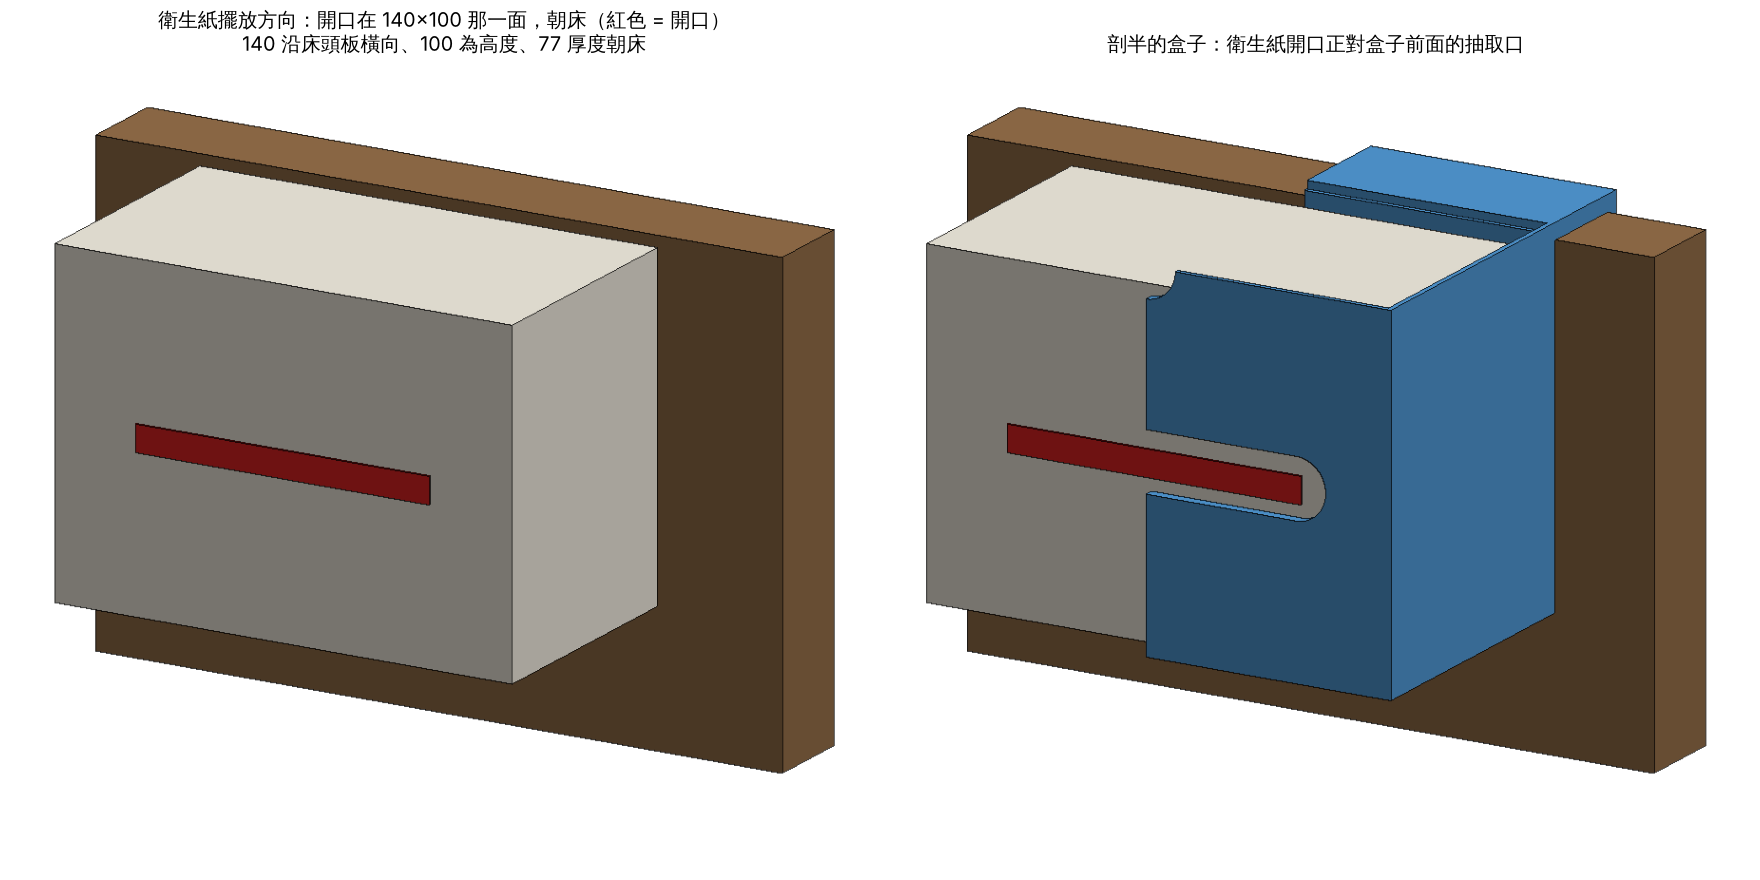
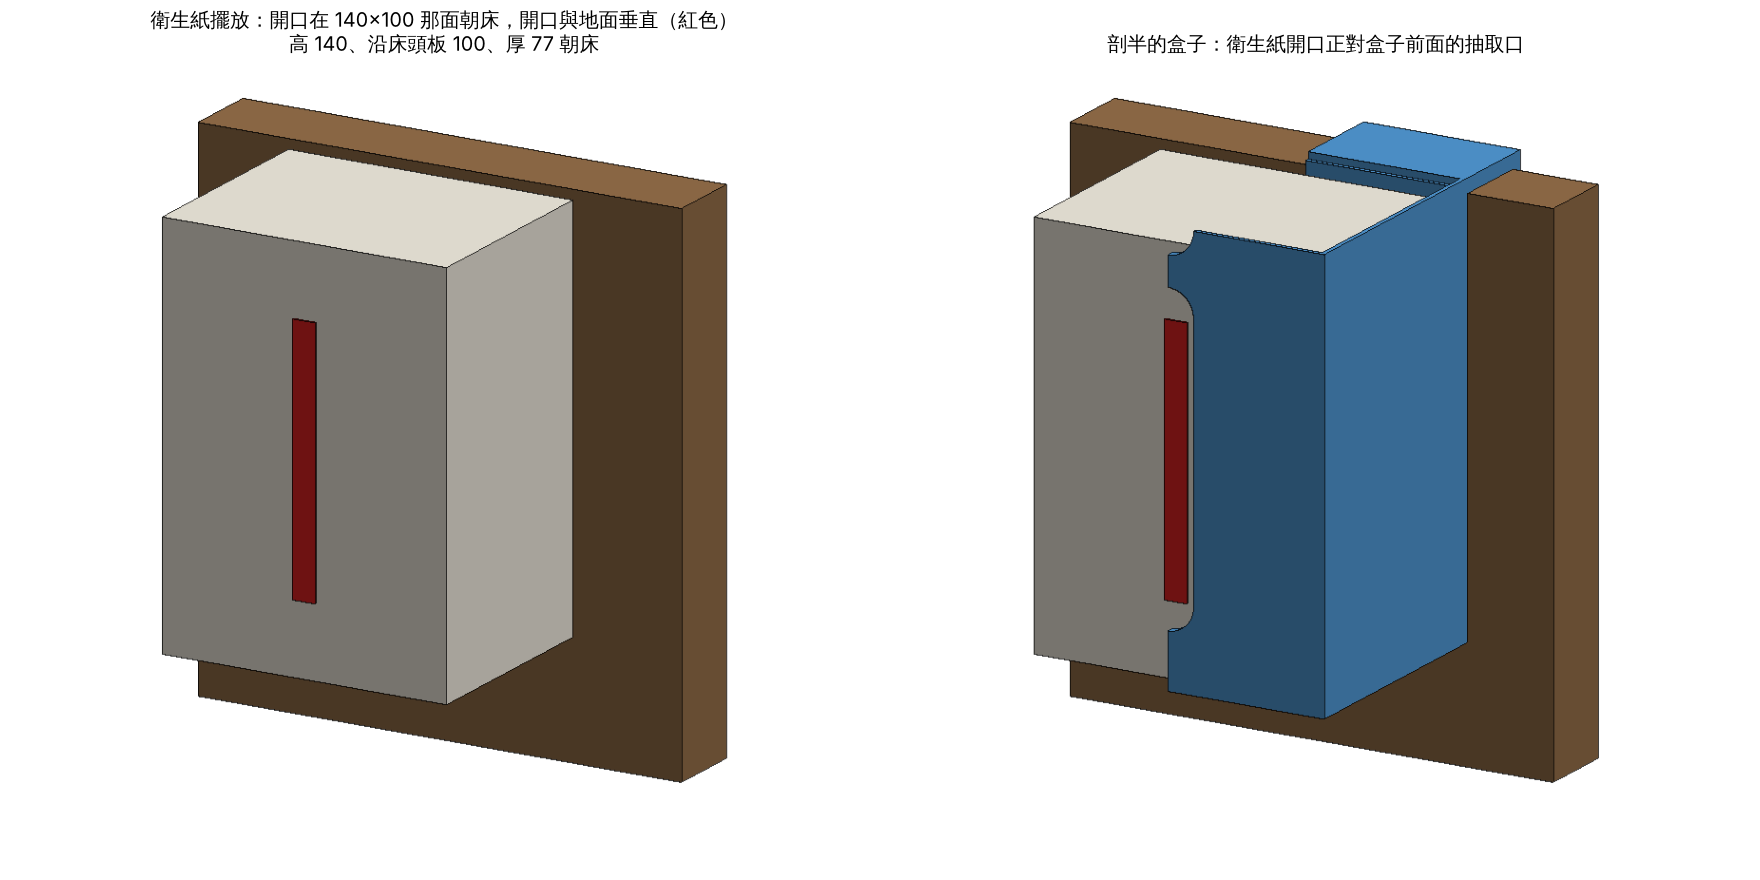
Stand tissue pack upright so the pull slit is vertical
The 140 mm side now stands vertical (100 mm along the headboard) and the
front pull slot is a vertical slit. Orientation is a SLOT_VERTICAL switch.

Claude-Session: https://claude.ai/code/session_012FbViPA8fkn2R78cNFpsQg

diff --git a/Python/project/headboard_tissue_box/tissue_box.py b/Python/project/headboard_tissue_box/tissue_box.py
@@ -11,9 +11,10 @@ import trimesh
 from manifold3d import Manifold, CrossSection
 
 # ---------- 參數 (mm) ----------
-TISSUE_L = 140.0    # 衛生紙長 (沿床頭板, 與抽取口同方向)
-TISSUE_W = 100.0    # 衛生紙寬 (直立後為高度)
-TISSUE_H = 77.0     # 衛生紙厚 (直立後為深度, 朝床方向)
+TISSUE_L = 140.0    # 衛生紙長 (與衛生紙開口同方向)
+TISSUE_W = 100.0    # 衛生紙寬
+TISSUE_H = 77.0     # 衛生紙厚 (朝床方向)
+SLOT_VERTICAL = True  # True: 抽取開口與地面垂直 (長邊 140 站直); False: 開口水平 (長邊沿床頭板)
 TISSUE_CLR = 4.0    # 衛生紙每個方向的總餘隙 (方便放入)
 WALL = 3.0          # 壁厚
 FLOOR = 2.4         # 底厚
@@ -32,9 +33,11 @@ LIP_H = 6.0         # 上蓋內嵌唇深度
 LID_CLR = 0.3       # 上蓋配合間隙
 NOTCH_R = 9.0       # 前緣掀蓋手指缺口半徑
 
-W = TISSUE_L + TISSUE_CLR + 2 * WALL           # 外寬 (沿床頭板)
+PACK_ALONG = TISSUE_W if SLOT_VERTICAL else TISSUE_L  # 衛生紙沿床頭板方向的尺寸
+PACK_UP = TISSUE_L if SLOT_VERTICAL else TISSUE_W     # 衛生紙高度方向的尺寸
+W = PACK_ALONG + TISSUE_CLR + 2 * WALL         # 外寬 (沿床頭板)
 DB = TISSUE_H + TISSUE_CLR + 2 * WALL          # 盒子外深 (不含跨板部分)
-H = FLOOR + TISSUE_W + TISSUE_CLR + LID_T      # 外高
+H = FLOOR + PACK_UP + TISSUE_CLR + LID_T       # 外高
 GAP = BOARD_T + BOARD_CLR
 D_TOTAL = DB + GAP + BACK_T
 OUT = os.path.join(os.path.dirname(os.path.abspath(__file__)), "output")
@@ -72,6 +75,8 @@ def body():
     # 抽取口: 朝床的垂直面 (Y=0)
     zc = SLOT_Z if SLOT_Z is not None else (FLOOR + H - LID_T) / 2
     slot = stadium(SLOT_L, SLOT_W, WALL + 2)
+    if SLOT_VERTICAL:
+        slot = slot.rotate([0, 0, 90])  # 長邊轉到 Y, 下一步轉到 XZ 平面後即為垂直
     slot = slot.rotate([-90, 0, 0]).translate([W / 2, -1, zc])  # (x,y,z)->(x,z,-y), 沿 +Y 穿過前壁
 
     # 前緣中央手指缺口, 方便掀開上蓋

diff --git a/Python/project/headboard_tissue_box/render_tissue.py b/Python/project/headboard_tissue_box/render_tissue.py
@@ -20,10 +20,13 @@ def box_mesh(x0, y0, z0, x1, y1, z1):
 
 c = tb.TISSUE_CLR / 2
 x0, y0, z0 = tb.WALL + c, tb.WALL + c, tb.FLOOR
-pack = box_mesh(x0, y0, z0, x0 + tb.TISSUE_L, y0 + tb.TISSUE_H, z0 + tb.TISSUE_W)
+pack = box_mesh(x0, y0, z0, x0 + tb.PACK_ALONG, y0 + tb.TISSUE_H, z0 + tb.PACK_UP)
 # 衛生紙本身的抽取開口 (在 140x100 那一面, 朝床)
-zc = z0 + tb.TISSUE_W / 2
-opening = box_mesh(x0 + 25, y0 - 0.6, zc - 4, x0 + tb.TISSUE_L - 25, y0 + 0.5, zc + 4)
+xc, zc = x0 + tb.PACK_ALONG / 2, z0 + tb.PACK_UP / 2
+if tb.SLOT_VERTICAL:
+    opening = box_mesh(xc - 4, y0 - 0.6, z0 + 25, xc + 4, y0 + 0.5, z0 + tb.PACK_UP - 25)
+else:
+    opening = box_mesh(x0 + 25, y0 - 0.6, zc - 4, x0 + tb.PACK_ALONG - 25, y0 + 0.5, zc + 4)
 zt = tb.H - tb.TOP_T
 by0 = tb.DB + tb.BOARD_CLR / 2
 board = box_mesh(-30, by0, -40, tb.W + 30, by0 + tb.BOARD_T, zt)
@@ -33,7 +36,7 @@ BOX_C = np.array([0.33, 0.62, 0.86]); BOARD_C = np.array([0.6, 0.45, 0.3])
 PACK_C = np.array([0.97, 0.95, 0.9]); RED = np.array([0.9, 0.15, 0.15])
 fig, axs = plt.subplots(1, 2, figsize=(16, 8))
 axs[0].imshow(render([(pack, PACK_C, 1), (opening, RED, 1), (board, BOARD_C, 1)], 18, -60, size=(900, 800)))
-axs[0].set_title("衛生紙擺放方向：開口在 140×100 那一面，朝床（紅色 = 開口）\n140 沿床頭板橫向、100 為高度、77 厚度朝床", fontsize=13)
+axs[0].set_title(f"衛生紙擺放：開口在 140×100 那面朝床，開口與地面垂直（紅色）\n高 {tb.PACK_UP:.0f}、沿床頭板 {tb.PACK_ALONG:.0f}、厚 {tb.TISSUE_H:.0f} 朝床", fontsize=13)
 axs[1].imshow(render([(half, BOX_C, 1), (pack, PACK_C, 1), (opening, RED, 1), (board, BOARD_C, 1)], 18, -60, size=(900, 800)))
 axs[1].set_title("剖半的盒子：衛生紙開口正對盒子前面的抽取口", fontsize=13)
 for a in axs:

diff --git a/Python/project/headboard_tissue_box/render.py b/Python/project/headboard_tissue_box/render.py
@@ -52,10 +52,11 @@ ax.add_patch(Rectangle((tb.WALL, tb.FLOOR), tb.DB - 2 * tb.WALL, z_top_cav - tb.
 ax.add_patch(Rectangle((tb.WALL - tb.LEDGE, z_top_cav), tb.DB - 2 * (tb.WALL - tb.LEDGE), tb.LID_T, fc=LID_C, ec="k"))
 ax.add_patch(Rectangle((by0, -70), tb.BOARD_T, zt + 70, fc=BOARD_C, ec="k", alpha=0.85))
 ax.text(by0 + tb.BOARD_T / 2, -20, f"床頭板 {tb.BOARD_T:.1f} mm", ha="center", va="center", color="white", fontsize=11, rotation=90)
-ax.add_patch(Rectangle((tb.WALL + tb.TISSUE_CLR / 2, tb.FLOOR), tb.TISSUE_H, tb.TISSUE_W, fc="#f4f1e8", ec="#999", hatch="||"))
-ax.text(tb.WALL + tb.TISSUE_CLR / 2 + tb.TISSUE_H / 2, tb.FLOOR + tb.TISSUE_W * 0.75, f"衛生紙(直立)\n{tb.TISSUE_L:.0f}×{tb.TISSUE_W:.0f}×{tb.TISSUE_H:.0f}", ha="center", va="center", fontsize=10, bbox=dict(fc="white", ec="none", alpha=0.8))
+ax.add_patch(Rectangle((tb.WALL + tb.TISSUE_CLR / 2, tb.FLOOR), tb.TISSUE_H, tb.PACK_UP, fc="#f4f1e8", ec="#999", hatch="||"))
+ax.text(tb.WALL + tb.TISSUE_CLR / 2 + tb.TISSUE_H / 2, tb.FLOOR + tb.PACK_UP * 0.85, f"衛生紙\n高 {tb.PACK_UP:.0f}・厚 {tb.TISSUE_H:.0f}", ha="center", va="center", fontsize=10, bbox=dict(fc="white", ec="none", alpha=0.8))
 zc = tb.SLOT_Z if tb.SLOT_Z is not None else (tb.FLOOR + z_top_cav) / 2
-ax.add_patch(Rectangle((-0.5, zc - tb.SLOT_W / 2), tb.WALL + 1, tb.SLOT_W, fc="red", ec="red"))
+slot_h = tb.SLOT_L if tb.SLOT_VERTICAL else tb.SLOT_W
+ax.add_patch(Rectangle((-0.5, zc - slot_h / 2), tb.WALL + 1, slot_h, fc="red", ec="red"))
 ax.add_patch(FancyArrowPatch((5, zc), (-70, zc), arrowstyle="-|>", mutation_scale=25, color="red", lw=2.5))
 ax.text(-38, zc + 8, "抽取方向\n(朝床, 與床頭板垂直)", ha="center", color="red", fontsize=11)
 ax.axhline(zt, color="gray", ls=":", lw=1)
